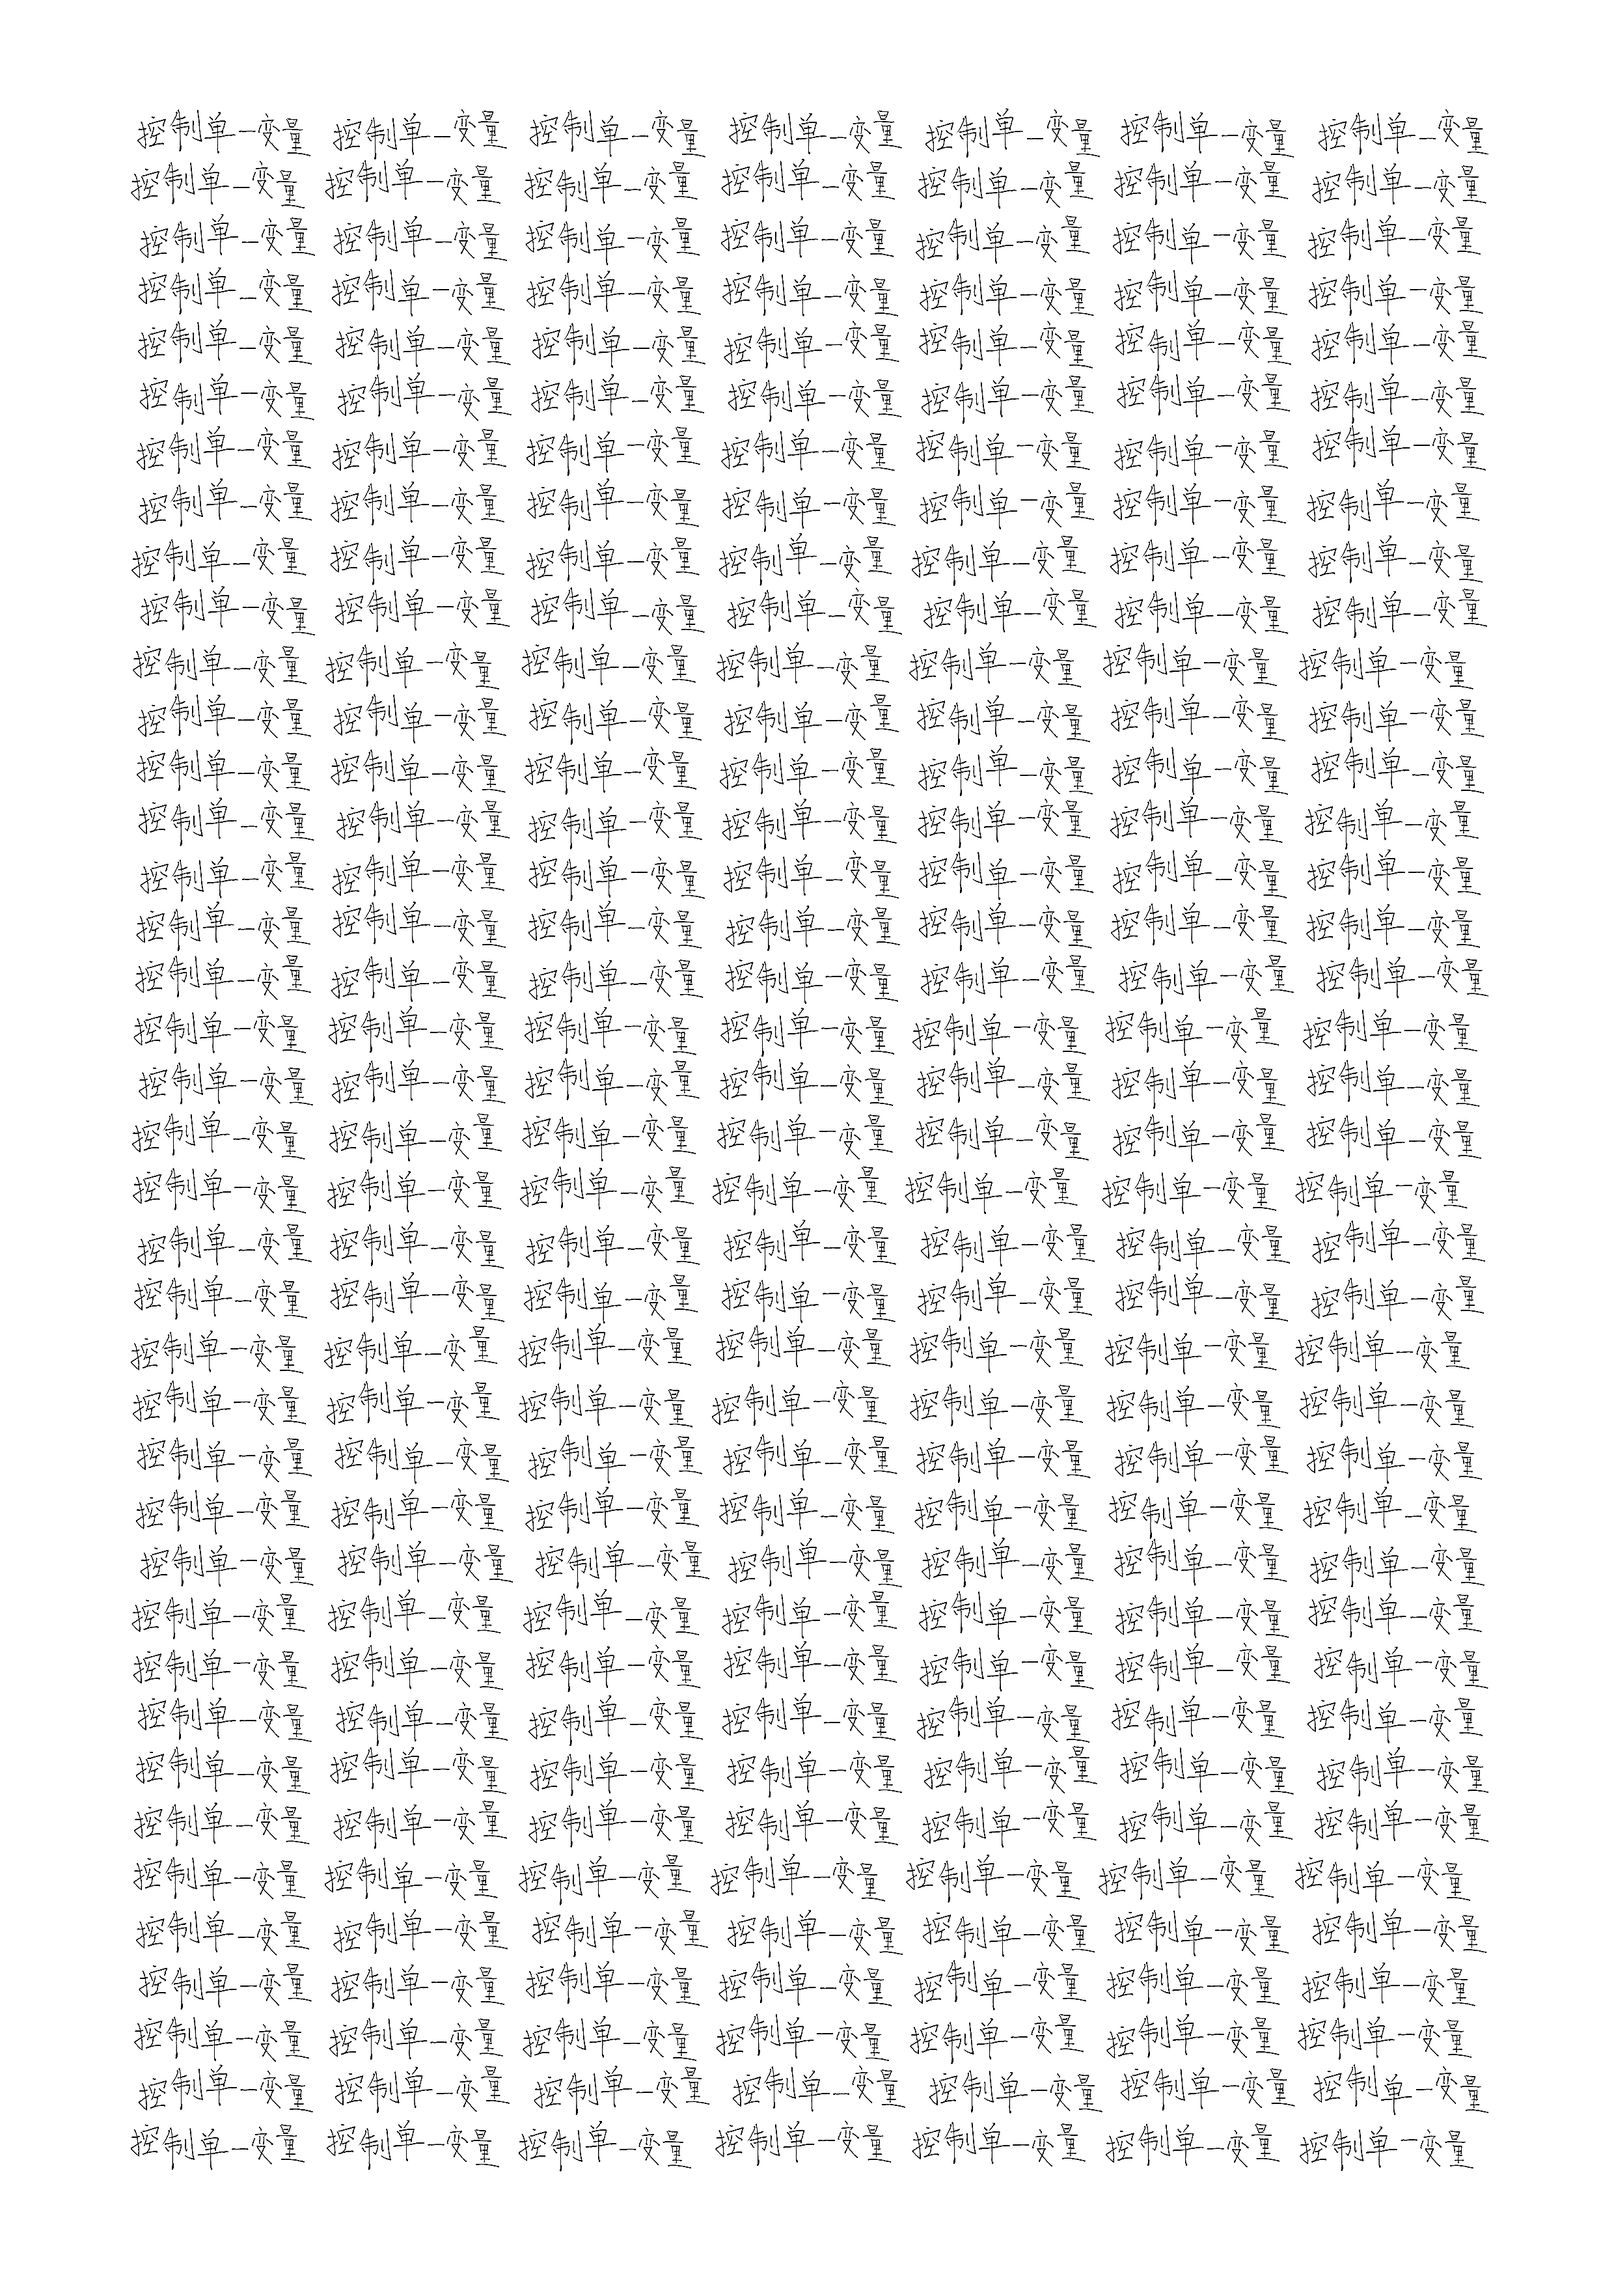
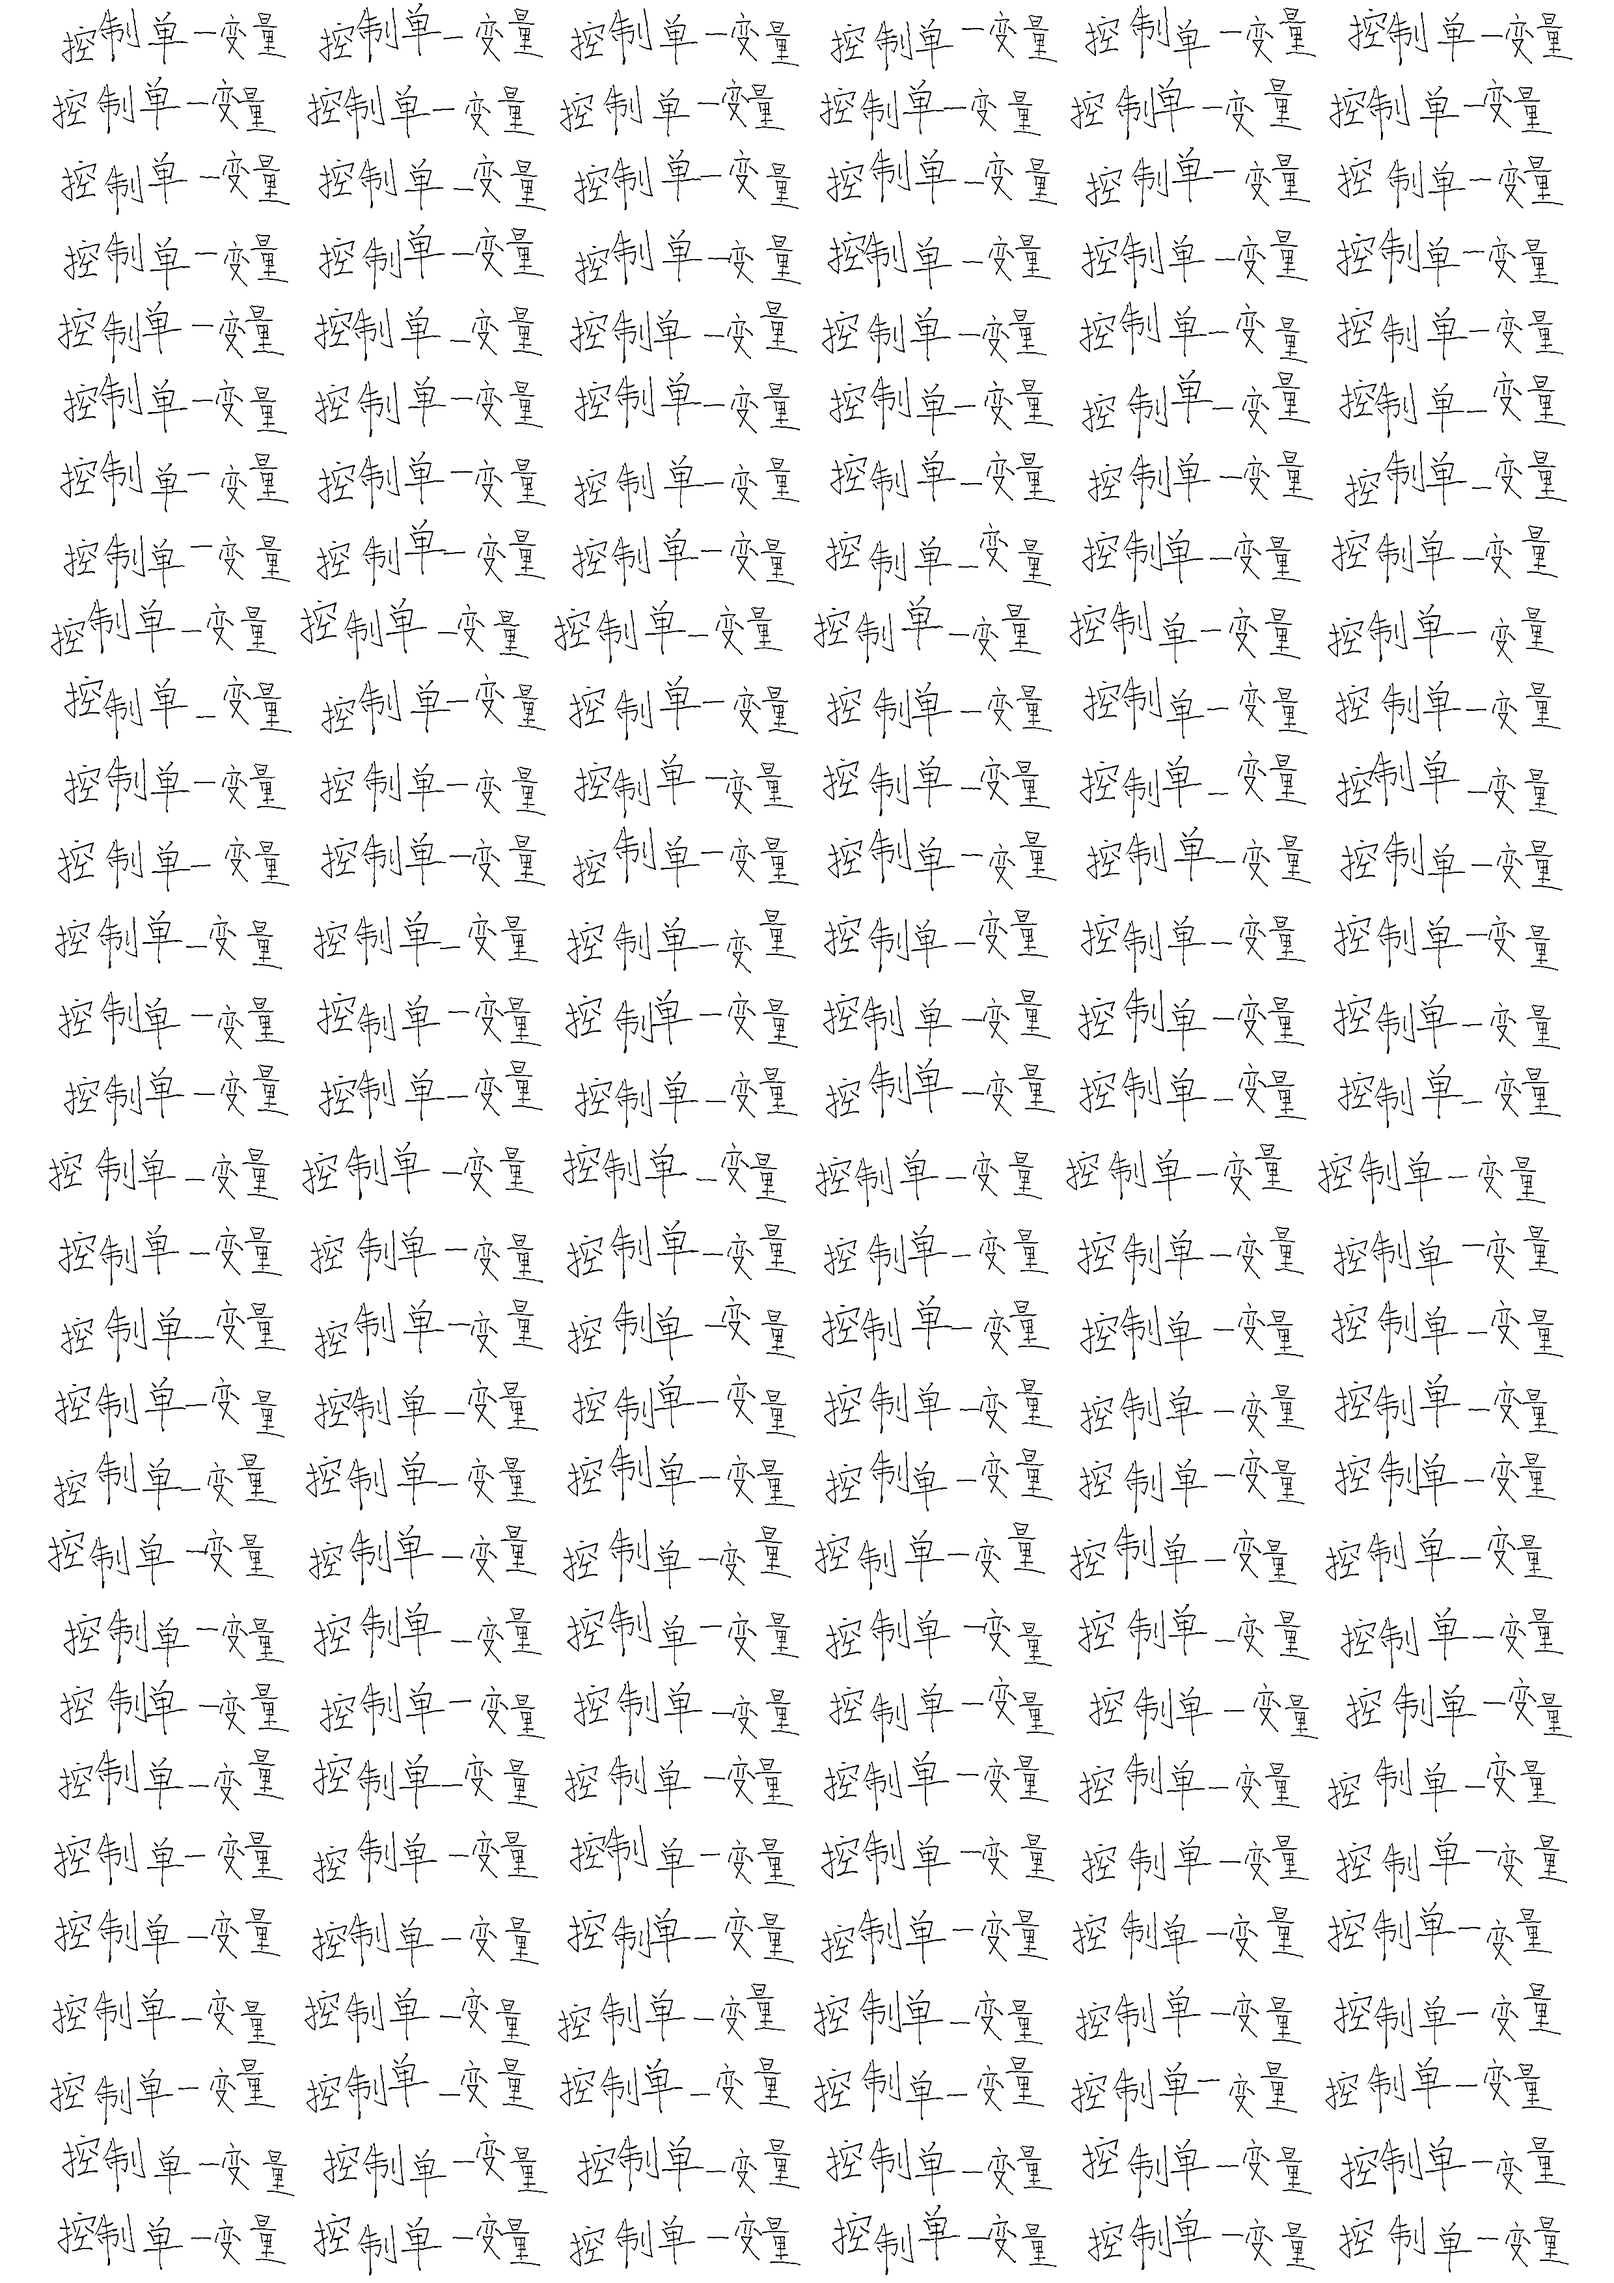
feat(render): enhance handwriting realism with jitter parameters and config refactor
- Add `rotation_jitter` and `scale_jitter` parameters to simulate natural handwriting variations
- Reduce `stroke_sigma` from 3.0 to 1.5 for localized stroke trembling instead of global displacement
- Increase `stroke_alpha` from 4.5 to 5.0 to maintain deformation visibility with smaller sigma
- Refactor main.py to use config list for multiple font renderings, improving maintainability
- Update README with new parameters and adjusted values for better handwriting effect
- Regenerate output images with enhanced settings

diff --git a/render_text.py b/render_text.py
@@ -174,9 +174,11 @@ def _render_char_with_stroke_jitter(
     alpha: float,
     sigma: float,
     rng: random.Random,
+    rotation: float = 0.0,
+    scale: float = 1.0,
 ) -> Image.Image:
     """
-    将单字符渲染为 RGBA 小画布并施加笔画弹性形变。
+    将单字符渲染为 RGBA 小画布并施加笔画弹性形变、旋转和缩放。
 
     :param char:       字符
     :param font:       PIL ImageFont 对象
@@ -184,6 +186,8 @@ def _render_char_with_stroke_jitter(
     :param alpha:      笔画扭曲幅度（像素），每字独立传入以形成差异
     :param sigma:      平滑半径，每字独立传入以形成差异
     :param rng:        random.Random 实例
+    :param rotation:   旋转角度（度），正值顺时针，每字独立随机
+    :param scale:      缩放比例（1.0 = 原大），每字独立随机
     :return:           RGBA Image
     """
     dummy = Image.new("RGBA", (1, 1))
@@ -199,7 +203,19 @@ def _render_char_with_stroke_jitter(
         (margin - bbox[0], margin - bbox[1]), char, font=font, fill=(*text_color, 255)
     )
 
-    return _elastic_distort(img, alpha, sigma, rng)
+    glyph = _elastic_distort(img, alpha, sigma, rng)
+
+    # 旋转抖动：每字轻微随机倾斜，模拟手写角度变化
+    if abs(rotation) > 0.01:
+        glyph = glyph.rotate(-rotation, expand=True, resample=Image.BICUBIC)
+
+    # 缩放抖动：每字轻微随机大小变化，模拟笔压/下笔力度差异
+    if abs(scale - 1.0) > 0.001:
+        new_w = max(1, int(glyph.width * scale))
+        new_h = max(1, int(glyph.height * scale))
+        glyph = glyph.resize((new_w, new_h), Image.LANCZOS)
+
+    return glyph
 
 
 def render_text_image(
@@ -283,11 +299,13 @@ def render_a4_groups(
     supersample: int = 4,
     jitter: bool = True,
     stroke_alpha: float = 2.5,
-    stroke_sigma: float = 3.0,
+    stroke_sigma: float = 1.5,
     alpha_jitter: float = 0.4,
-    sigma_jitter: float = 1.0,
+    sigma_jitter: float = 0.5,
     ink_jitter: int = 25,
     baseline_jitter: int = 4,
+    rotation_jitter: float = 3.0,
+    scale_jitter: float = 0.04,
     seed: int | None = None,
 ):
     """
@@ -327,6 +345,10 @@ def render_a4_groups(
     :param ink_jitter:      毎字墓色深浅随机变动范围（RGB 分量偏移像素值），
                             模拟笔压轻重导致的淡淡深深，默认 25
     :param baseline_jitter: 每字基线随机垂直偏移范围（像素），模拟字符上下浮动，默认 4
+    :param rotation_jitter: 每字随机旋转角度范围（度），实际旋转在
+                            [-rotation_jitter, +rotation_jitter] 内均匀随机，默认 3.0
+    :param scale_jitter:    每字随机缩放范围（比例），实际大小在
+                            [1-scale_jitter, 1+scale_jitter] 内随机，默认 0.04（±4%）
     :param seed:            随机种子，传入整数可固定扰动结果以便复现，默认 None
     """
     if not os.path.exists(font_path):
@@ -409,14 +431,24 @@ def render_a4_groups(
                         max(0, min(255, c + ink_delta)) for c in text_color
                     )
                     y_offset = rng.randint(-baseline_jitter * s, baseline_jitter * s)
+                    char_rotation = rng.uniform(-rotation_jitter, rotation_jitter)
+                    char_scale = rng.uniform(1 - scale_jitter, 1 + scale_jitter)
 
                     glyph = _render_char_with_stroke_jitter(
-                        ch, font, char_color, char_alpha, char_sigma, rng
+                        ch,
+                        font,
+                        char_color,
+                        char_alpha,
+                        char_sigma,
+                        rng,
+                        rotation=char_rotation,
+                        scale=char_scale,
                     )
                     # 小图中心对齐到字符理论位置，并加入基线偏移
-                    margin = (glyph.width - cw) // 2
-                    px = x_cursor - bbox[0] - margin
-                    py = y_base - bbox[1] - margin + y_offset
+                    margin_w = (glyph.width - cw) // 2
+                    margin_h = (glyph.height - ch_h) // 2
+                    px = x_cursor - bbox[0] - margin_w
+                    py = y_base - bbox[1] - margin_h + y_offset
                     hi_res.paste(glyph, (px, py), mask=glyph)
                 else:
                     draw = ImageDraw.Draw(hi_res)
@@ -442,13 +474,16 @@ def render_a4_groups(
             )
             x_cursor += jittered_gs
 
-    # 步骤 4：缩小到 A4 尺寸
+    # 步骤 4：缩放到 A4 尺寸（超出时缩小，不足时放大，均保持等比）
     final_w = canvas_w // s
     final_h = canvas_h // s
-    if final_h > a4_h_px:
-        ratio = a4_h_px / final_h
+    # 选取能让内容完整铺满 A4 的最大等比缩放比
+    ratio_w = a4_w_px / final_w
+    ratio_h = a4_h_px / final_h
+    ratio = min(ratio_w, ratio_h)  # 取最小值，保证两边都不超出
+    if abs(ratio - 1.0) > 0.005:
         final_w = int(final_w * ratio)
-        final_h = a4_h_px
+        final_h = int(final_h * ratio)
 
     img = hi_res.resize((final_w, final_h), Image.LANCZOS)
     img = img.filter(ImageFilter.UnsharpMask(radius=1.5, percent=180, threshold=2))

diff --git a/main.py b/main.py
@@ -12,61 +12,51 @@ def main():
     # img_path = os.path.join("pic", "kongzhidanyibianliang.jpg")
     # font_extractor.main(img_path, char_labels=["控", "制", "单", "一", "变", "量"])
 
-    # render_a4_groups(
-    #     text="基孔肯雅病毒",
-    #     font_path="jikongkengyabingdu.ttf",
-    #     output_path="output_a4_jikong.png",
-    #     repeat=7,  # 单行大字：3 组/行 → 字号约 457px；改为 2 可达 710px
-    #     rows=39,
-    #     font_size=None,
-    #     supersample=6,  # 提升清晰度（默认 4，改 6 后边缘更平滑，内存翻 1.5 倍）
-    #     letter_spacing=2,  # 组内字间距收窄（px）
-    #     letter_spacing_jitter=1,
-    #     group_spacing=30,  # 组间距大幅收窄，让组更密（px）
-    #     group_spacing_jitter=5,
-    #     line_spacing=15,  # 行间距收窄（px）
-    #     line_spacing_jitter=3,
-    #     padding_x=6,  # 左右留白收窄（px）
-    #     padding_y=12,  # 上下留白收窄（px）
-    #     padding_jitter=15,  # 每行行首随机右偏移 0~10px
-    #     dpi=300,
-    #     jitter=True,
-    #     stroke_alpha=4.5,  # 笔画扭曲幅度基准值
-    #     stroke_sigma=3.0,  # 平滑半径基准值
-    #     alpha_jitter=0.6,  # 扭曲幅度 ±40% 随机
-    #     sigma_jitter=1.0,  # 平滑半径 ±1.0 像素随机
-    #     ink_jitter=10,  # 墨色深浅 ±25 随机
-    #     baseline_jitter=8,  # 字符基线 ±4px 垂直浮动
-    #     seed=None,
-    # )
+    configs = [
+        {
+            "text": "基孔肯雅病毒",
+            "font_path": "jikongkengyabingdu.ttf",
+            "output_path": "output_a4_jikong.png",
+            "scale_jitter": 0.07,
+        },
+        {
+            "text": "控制单一变量",
+            "font_path": "kongzhidanyibianliang.ttf",
+            "output_path": "output_a4_kongzhi.png",
+            "scale_jitter": 0.07,
+        },
+    ]
 
-    render_a4_groups(
-        text="控制单一变量",
-        font_path="kongzhidanyibianliang.ttf",
-        output_path="output_a4_kongzhi.png",
-        repeat=7,  # 单行大字：3 组/行 → 字号约 457px；改为 2 可达 710px
-        rows=39,
-        font_size=None,
-        supersample=6,  # 提升清晰度（默认 4，改 6 后边缘更平滑，内存翻 1.5 倍）
-        letter_spacing=2,  # 组内字间距收窄（px）
-        letter_spacing_jitter=1,
-        group_spacing=30,  # 组间距大幅收窄，让组更密（px）
-        group_spacing_jitter=5,
-        line_spacing=15,  # 行间距收窄（px）
-        line_spacing_jitter=3,
-        padding_x=6,  # 左右留白收窄（px）
-        padding_y=12,  # 上下留白收窄（px）
-        padding_jitter=15,  # 每行行首随机右偏移 0~10px
-        dpi=300,
-        jitter=True,
-        stroke_alpha=4.5,  # 笔画扭曲幅度基准值
-        stroke_sigma=3.0,  # 平滑半径基准值
-        alpha_jitter=0.6,  # 扭曲幅度 ±40% 随机
-        sigma_jitter=1.0,  # 平滑半径 ±1.0 像素随机
-        ink_jitter=10,  # 墨色深浅 ±25 随机
-        baseline_jitter=8,  # 字符基线 ±4px 垂直浮动
-        seed=None,
-    )
+    for config in configs:
+        render_a4_groups(
+            text=config["text"],
+            font_path=config["font_path"],
+            output_path=config["output_path"],
+            repeat=6,
+            rows=30,
+            font_size=None,
+            supersample=6,
+            letter_spacing=4,
+            letter_spacing_jitter=2,
+            group_spacing=35,
+            group_spacing_jitter=2,
+            line_spacing=28,
+            line_spacing_jitter=5,
+            padding_x=10,
+            padding_y=15,
+            padding_jitter=20,
+            dpi=300,
+            jitter=True,
+            stroke_alpha=5.0,
+            stroke_sigma=1.5,
+            alpha_jitter=0.7,
+            sigma_jitter=0.4,
+            ink_jitter=15,
+            baseline_jitter=8,
+            rotation_jitter=3.5,
+            scale_jitter=config["scale_jitter"],
+            seed=None,
+        )
 
 
 if __name__ == "__main__":

diff --git a/README.md b/README.md
@@ -79,6 +79,20 @@ font_size ∝ A4 宽度 / (repeat × 组宽 + (repeat - 1) × group_spacing + 2 
 
 - **已将 repeat 改为 5，rows 改为 35**：字号会从约 46px 增大到约 65px（约大 40%），获得更舒适的大字显示效果。
 
+### 手写效果增强参数
+
+#### 新增的关键参数
+| 参数 | 作用 | 建议值 |
+|------|------|--------|
+| `rotation_jitter=3.5` | 每字随机旋转 ±3.5°，这是让同字看起来不同的最主要因素 | 2~5，越大倾斜越明显 |
+| `scale_jitter=0.05` | 每字随机缩放 ±5%，模拟下笔力度差异 | 0.03~0.08 |
+
+#### 已有参数调整
+| 参数 | 旧值 → 新值 | 原因 |
+|------|-------------|------|
+| `stroke_sigma` | 3.0 → 1.5 | 平滑半径变小，形变变局部，从"整体位移"变成真正的"笔画颤抖" |
+| `stroke_alpha` | 4.5 → 5.0 | 配合更小的 sigma，维持可见的形变强度 |
+
 ## 字体生成命令
 在完成字体提取过程后，会生成相应的 FontForge 脚本文件。要生成最终的 TTF 字体文件，需要运行以下命令：
 
